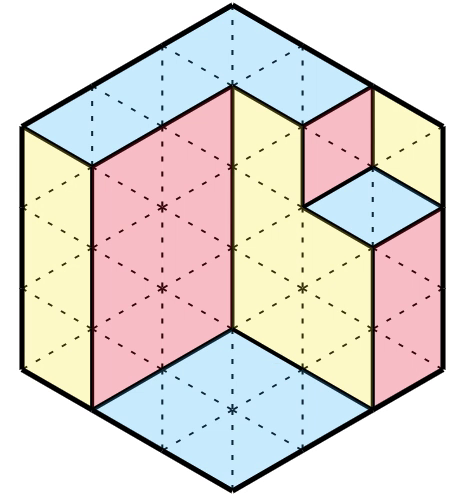
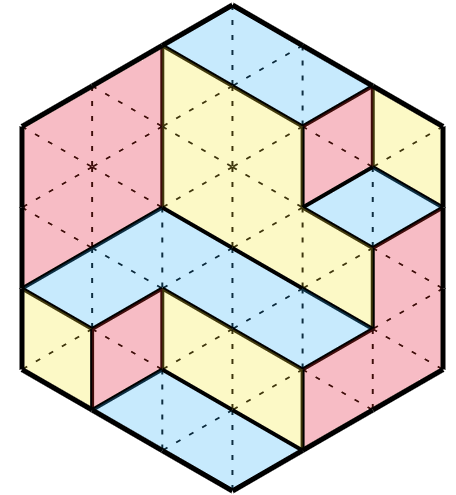
V2.10.1 Erreur de fichier graphique
pictures/11-color.png était incorrect

diff --git a/service-worker.js b/service-worker.js
@@ -9,7 +9,7 @@
 
 // Le n° de version de l'appication PWA
 // Mettre à jour pour forcer l'actualisation du cache du navigateur
-const VERSION_SC = "2.10.0"
+const VERSION_SC = "2.10.1"
 
 // Based off of https://github.com/pwa-builder/PWABuilder/blob/main/docs/sw.js
 
